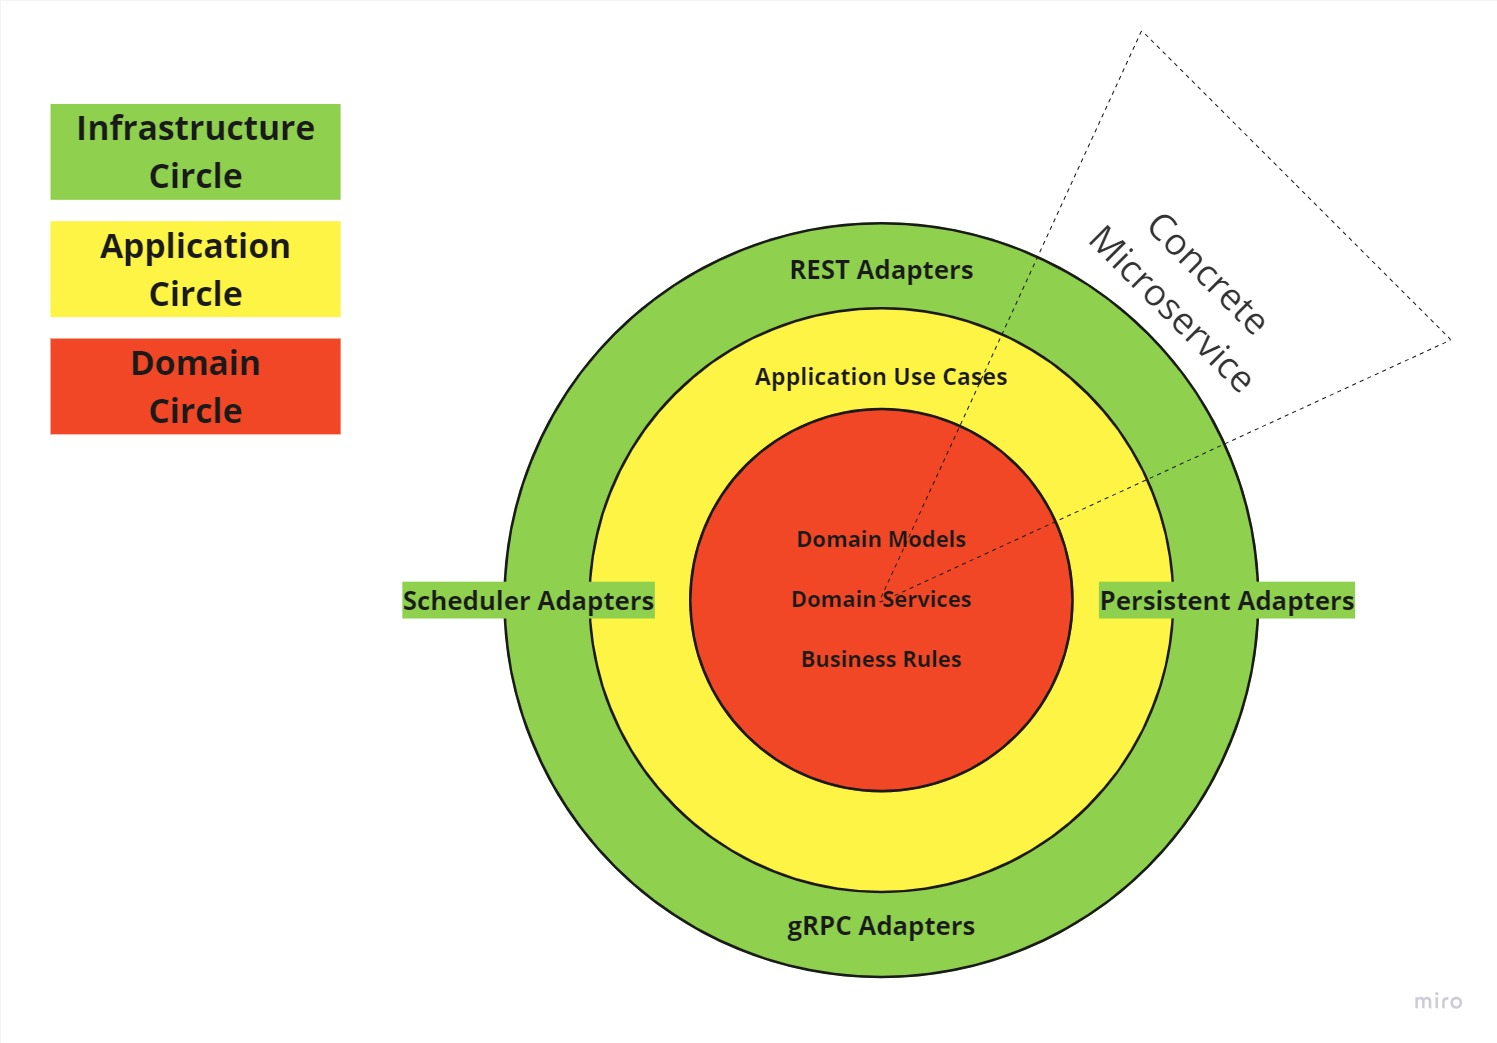
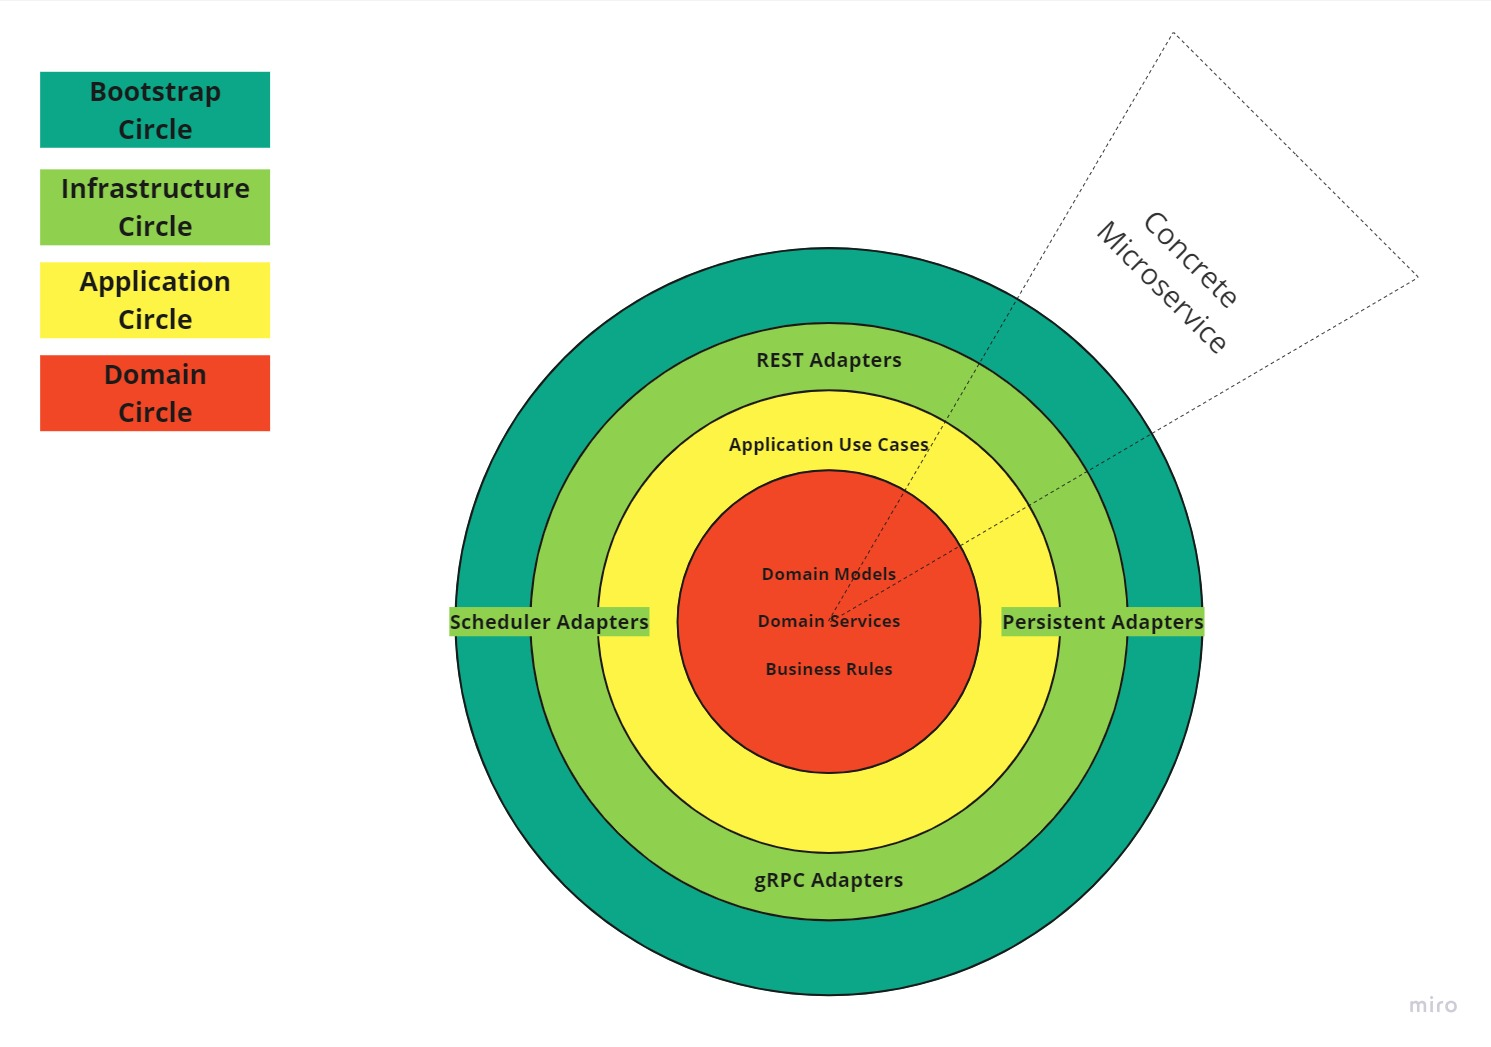
[TASK-09] update architecture docs

Changed region(s): [[0.2468, 0.2148, 0.9256, 0.9511], [0.0, 0.0614, 0.2468, 0.4295], [0.4936, 0.7057, 0.5245, 0.7363]]

diff --git a/supplement/documentation/Architecture.md b/supplement/documentation/Architecture.md
@@ -93,6 +93,8 @@ and orchestrates the Domain Service Circle.
 `The Infastructure Service Circle` exposes the Adapters to interact with the external world, 
 and orchestrates the Application Service Circle.
 
+`The Application Circle` defines the main class to boot the entire application.
+
 ### Representation in Code
 `The Domain Model Circle` and `The Domain Service Circle` represents the package `domain`. 
 These circles were merged for sake of simplicity, because this project was not intended to evolve.
@@ -100,6 +102,8 @@ These circles were merged for sake of simplicity, because this project was not i
 `The Application Circle` represents the package `application`.
 
 `The Infrastructure Circle` represents the package `infrastructure`.
+
+`The Application Circle` represents the package `bootstrap`.
 
 ## Specification Driven Development (SDD)
 Specification-driven API development is a design-first approach to software development.
